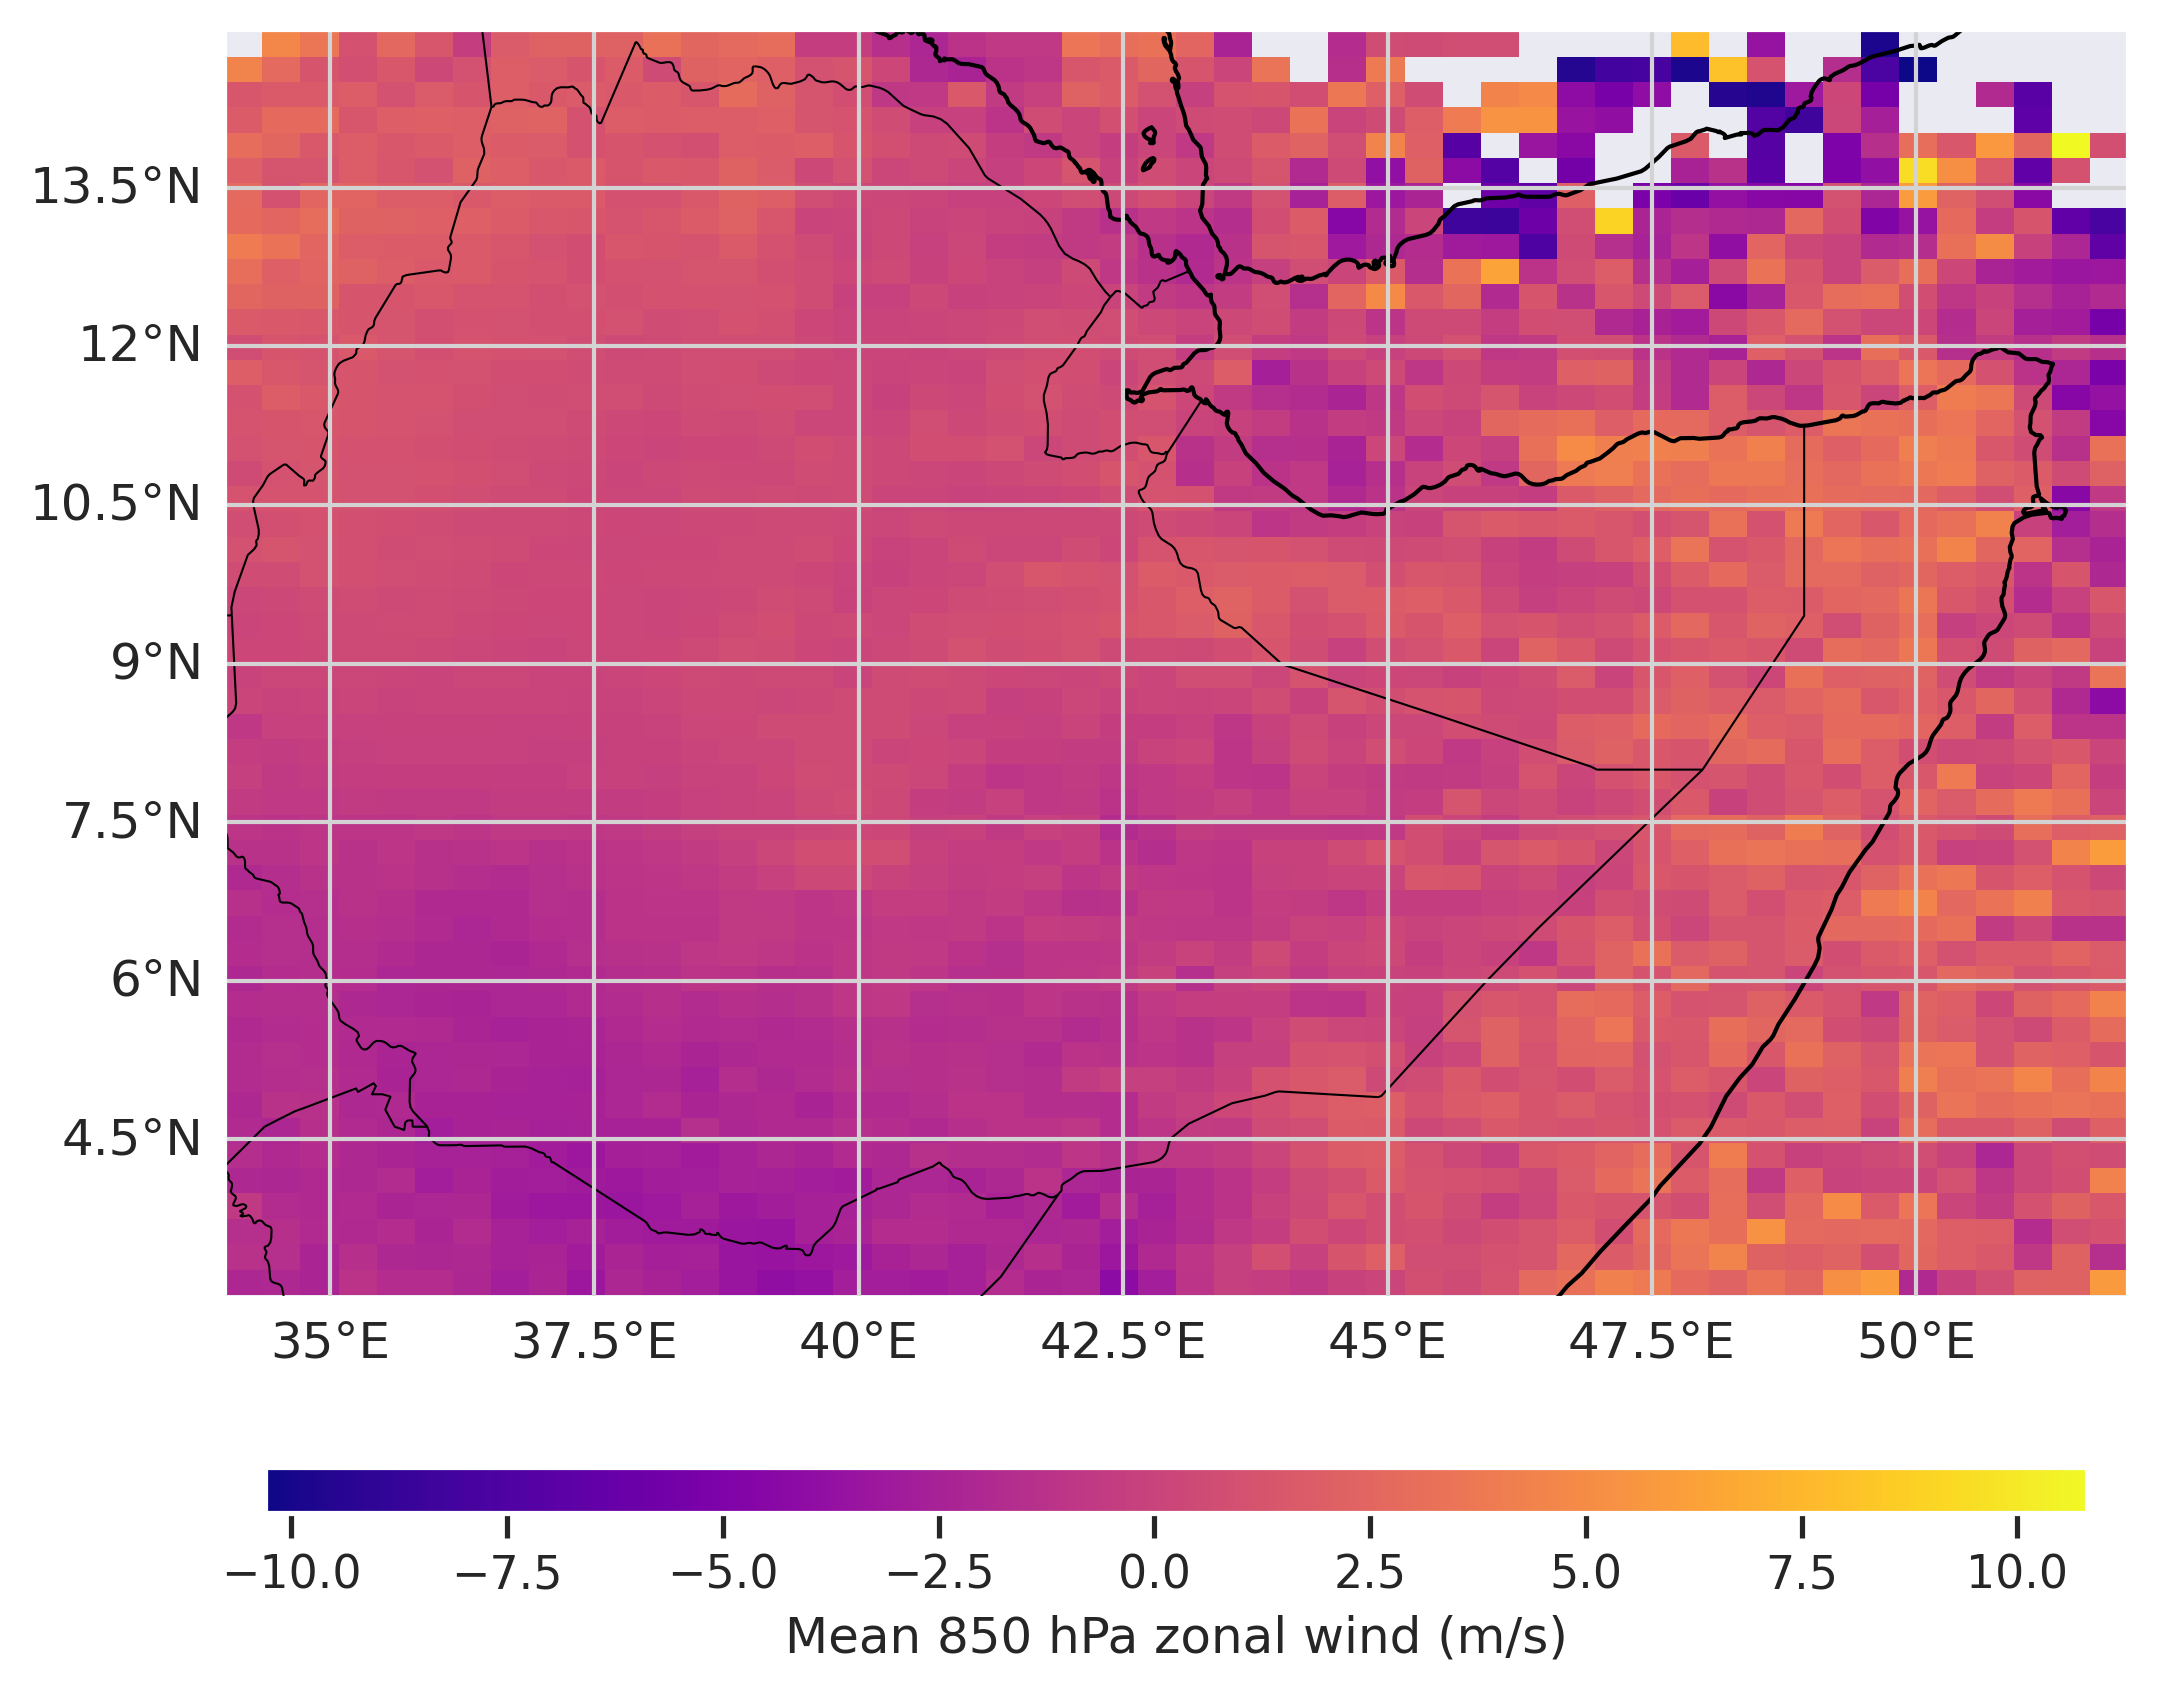
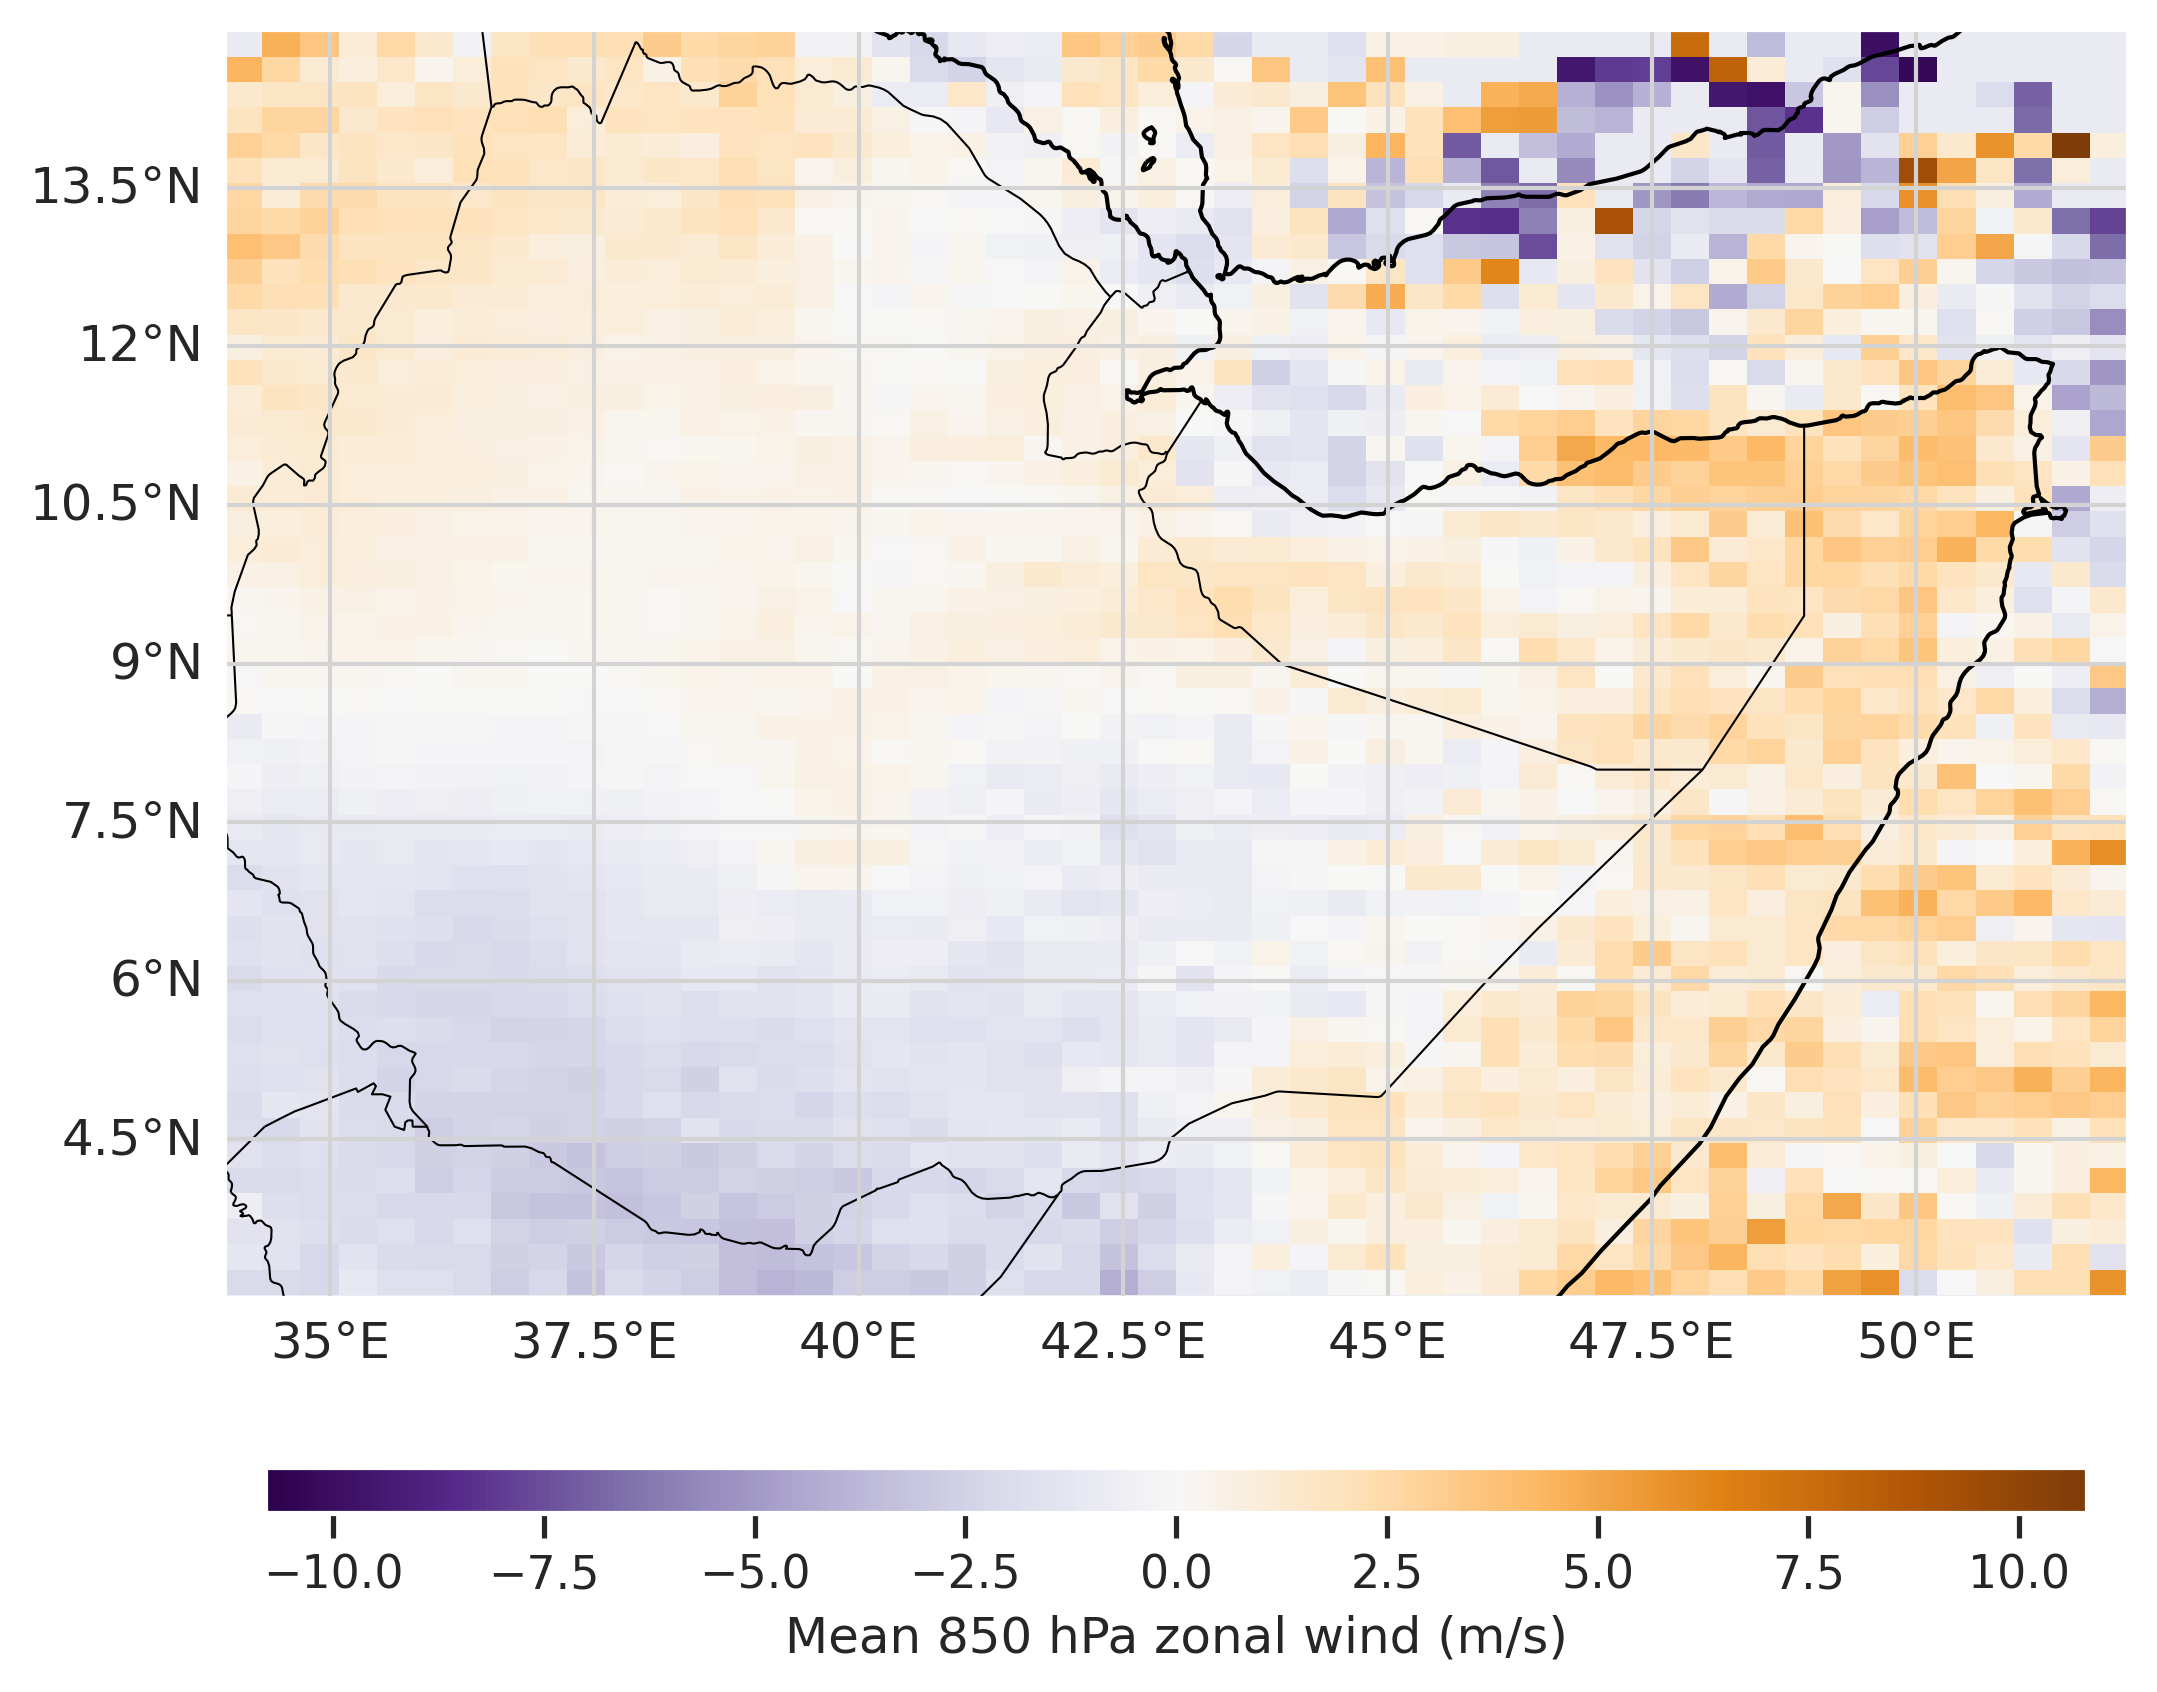
add winds and tcwv specific cmaps

diff --git a/src/create_figures.py b/src/create_figures.py
@@ -850,7 +850,7 @@ plotting.plot_2d_agg_map(
     tcwv_mean_lon,
     tcwv_mean_lat,
     tcwv_mean_grid,
-    cmap=config.DEFAULT_MAP_CMAP,
+    cmap=config.TCWV_MAP_CMAP,
     cbar_aspect=40,
     cbar_shrink=0.63,
     cbar_label=f"Mean Total Column Water Vapour ({config.FEATURE_COL_UNITS['mean_tcwv']})",
@@ -871,7 +871,8 @@ plotting.plot_2d_agg_map(
     u850_mean_lon,
     u850_mean_lat,
     u850_mean_grid,
-    cmap=config.DEFAULT_MAP_CMAP,
+    sym_cmap_centre=0,
+    cmap=config.WINDS_MAP_CMAP,
     cbar_aspect=40,
     cbar_shrink=0.63,
     cbar_label=f"Mean 850 hPa zonal wind ({config.FEATURE_COL_UNITS['mean_u850']})",
@@ -892,7 +893,8 @@ plotting.plot_2d_agg_map(
     v850_mean_lon,
     v850_mean_lat,
     v850_mean_grid,
-    cmap=config.DEFAULT_MAP_CMAP,
+    sym_cmap_centre=0,
+    cmap=config.WINDS_MAP_CMAP,
     cbar_aspect=40,
     cbar_shrink=0.63,
     cbar_label=f"Mean 850 hPa meridional wind ({config.FEATURE_COL_UNITS['mean_v850']})",

diff --git a/src/config.py b/src/config.py
@@ -66,6 +66,8 @@ TERRAIN_CMAP = ListedColormap(
 )
 # default cmap for feature value maps
 DEFAULT_MAP_CMAP = "plasma"
+TCWV_MAP_CMAP = "Blues"
+WINDS_MAP_CMAP = "PuOr_r"
 
 
 # ==============================================================================
